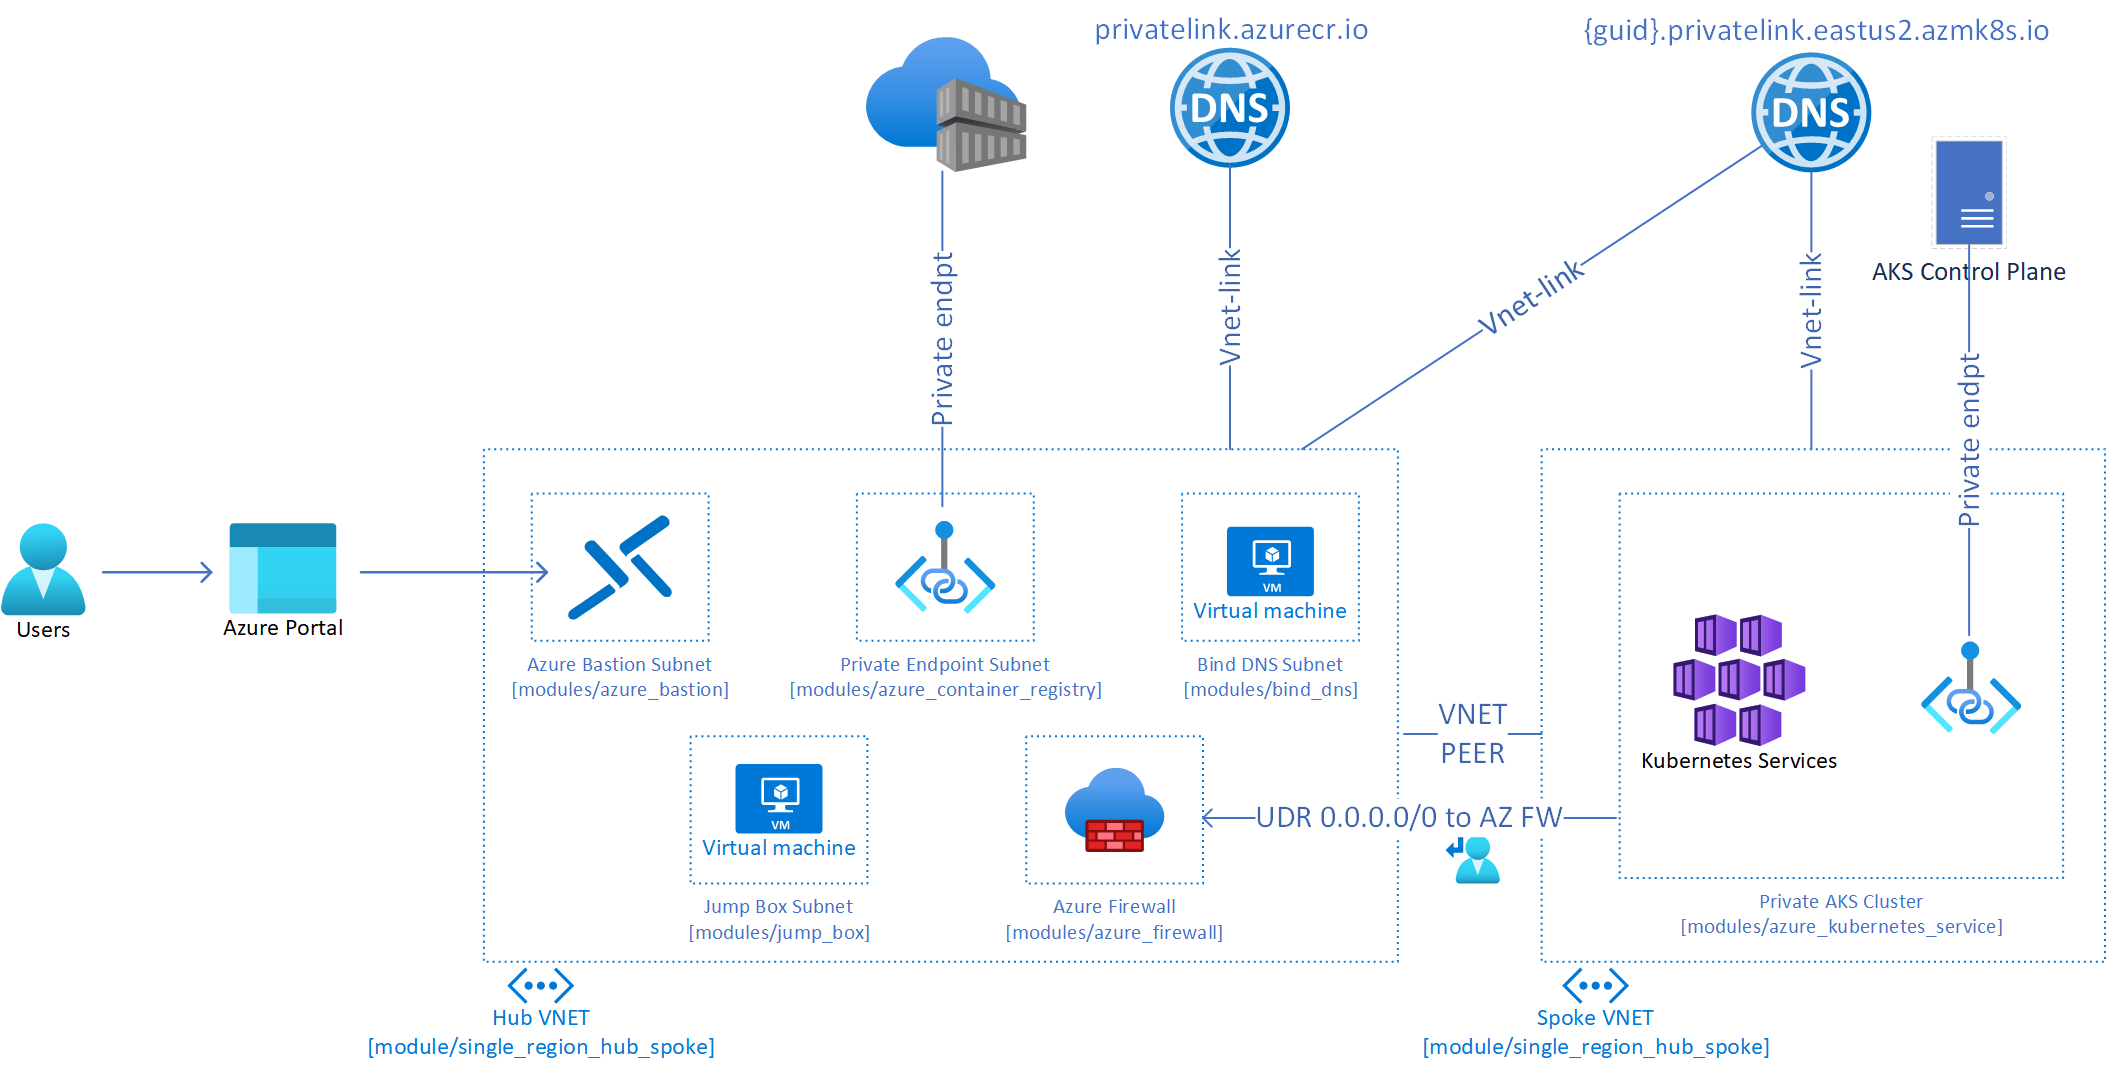
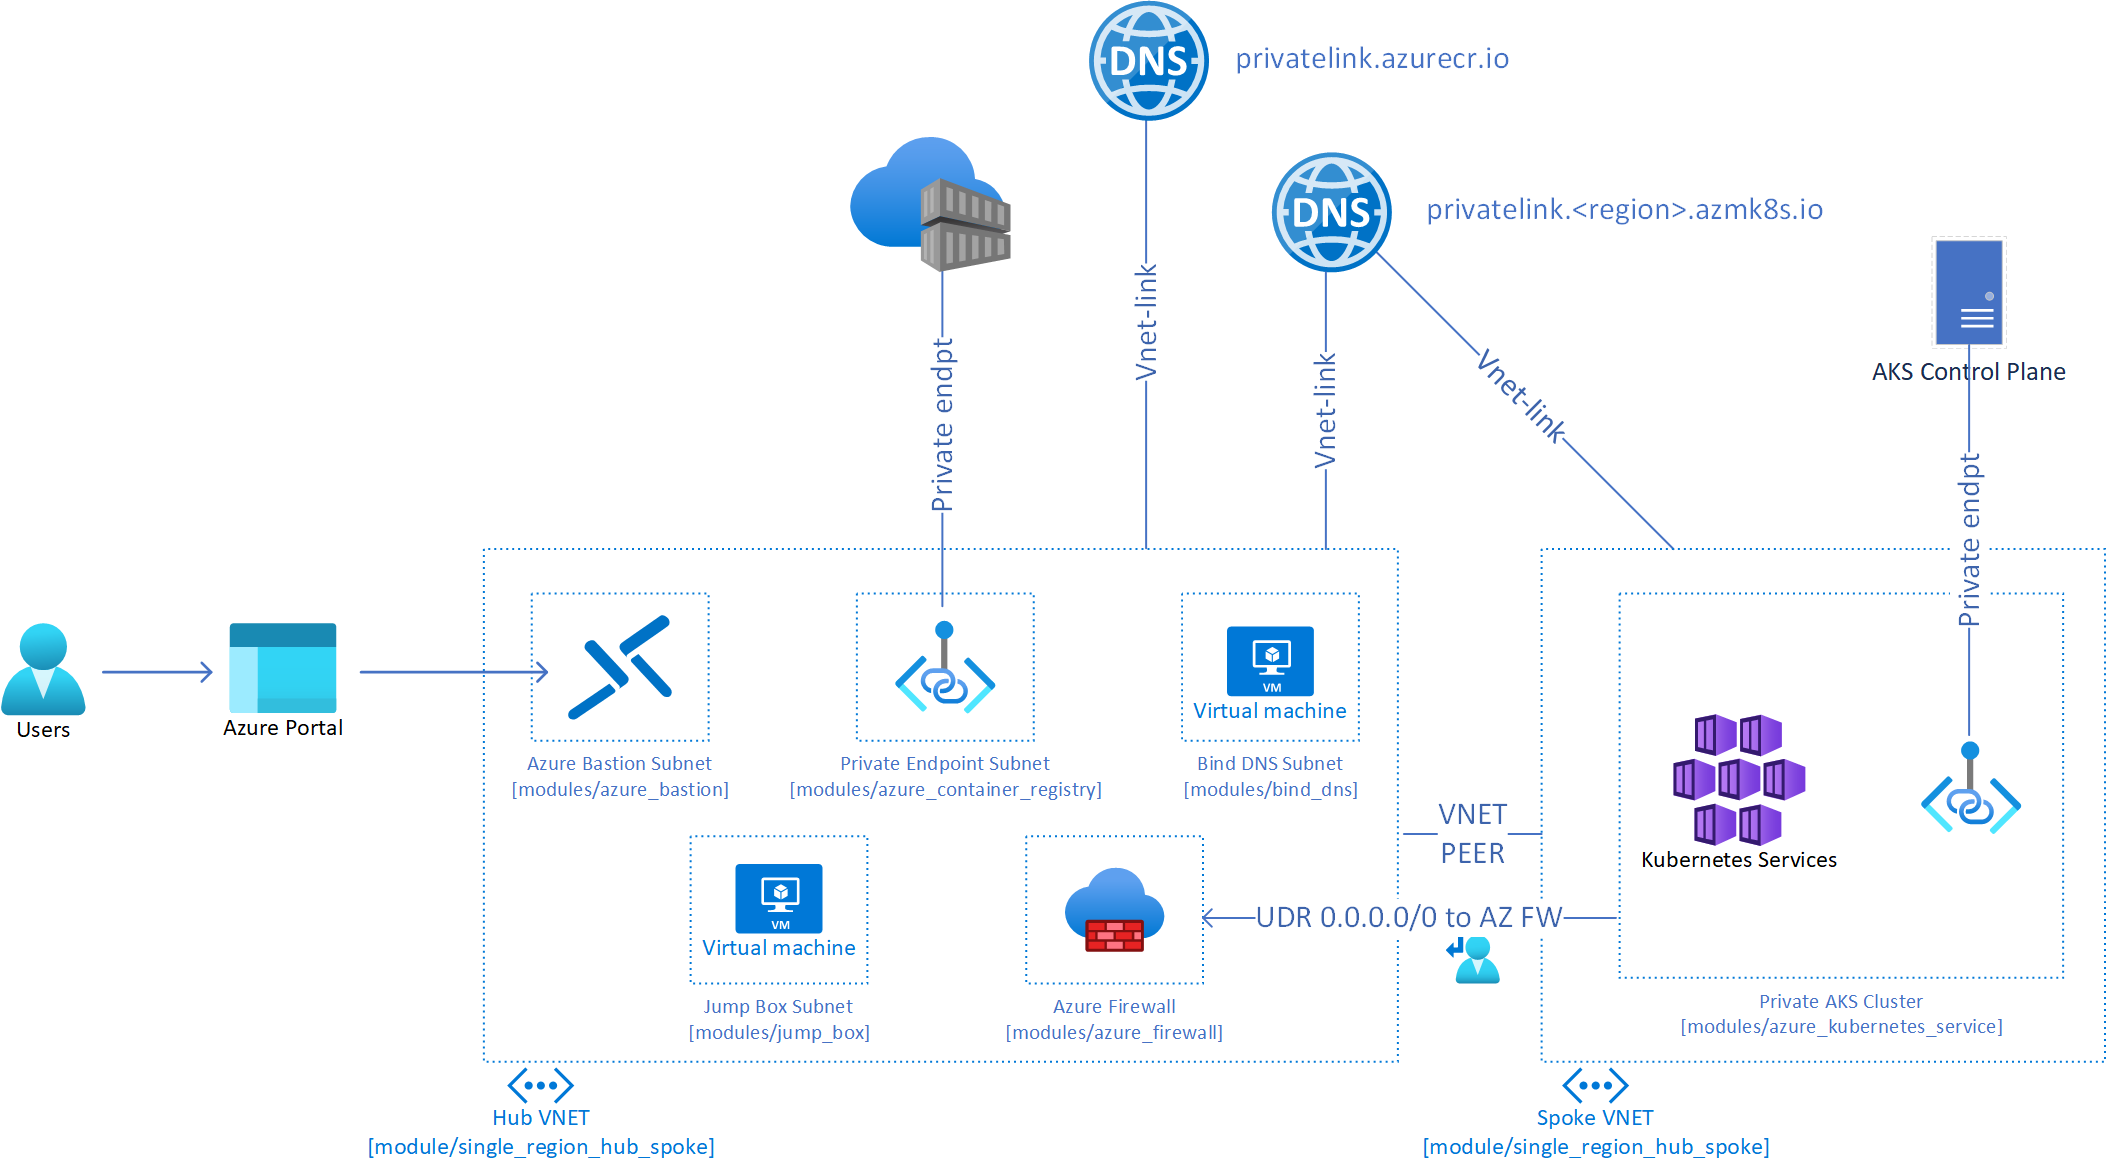
Updated readme

diff --git a/readme.md b/readme.md
@@ -1,29 +1,31 @@
 # Overview 
-The following project demonstrates deployment of a private AKS cluster within a hub-spoke model with custom DNS. It consists of: 
+The following project demonstrates deployment of a private AKS cluster within a hub-spoke model with BYO Private DNS Zone. It consists of: 
 1. Hub VNET with:
-    1. Azure Bastion - Used SSH into BIND/Jump Box VMs
+    1. Azure Bastion - Used SSH into BIND/Jump Box VMs/AKS Nodes
     2. Azure Firewall - Used for AKS Egress Filtering
     3. BIND DNS - Used as the DNS for Spoke VNET, Forwards to 168.63.129.16 for Private Endpoint resolution
     4. Private Endpoint Subnet for ACR/other shared resources
     5. Azure Private DNS for Private Endpoints [ACR, AKS]
 2. Spoke VNET with:
     1. VNET Custom DNS Servers pointed to BIND DNS
-    2. Private AKS Cluster with UDR to Azure Firewall for Egress
+    2. Private AKS Cluster with 
+        1. Host-based Encryption Enabled: [Doc Ref.](https://docs.microsoft.com/en-us/azure/aks/enable-host-encryption)
+        2. SSE with CMK: [Doc Ref.](https://docs.microsoft.com/en-us/azure/aks/azure-disk-customer-managed-keys)
+        3. UDR to Azure FW for Egress: [Doc Ref.](https://docs.microsoft.com/en-us/azure/aks/limit-egress-traffic#restrict-egress-traffic-using-azure-firewall)
 
 ![Architecture Overview](hub-spoke-private-aks-udr.png)
 
 # Module Design Principles:
-As there are multiple ways to create TF modules and instantiate environment instances. We structured the repository in the following way: 
+As there are multiple ways to create TF modules and instantiate environment instances. I structured the repository in the following way: 
 1. Single resources and their dependencies are grouped into a module 
 2. Architecture templates are grouped into a module
-3. There is only 2 degrees of nesting max: root (main.tf) --> module --> module
+3. There is only 2 degrees of nesting max: root main.tf --> module --> module
 
 # Build and Environment Dependencies 
-1. Terraform execution environment should be within a linux context
-2. jq lib [sudo apt-get install jq], Azure CLI needed
-3. Assumption is that you leveraged the azure cli login auth method within your dev environment, there needs to be additional code modifications for deploying this via Azure DevOps/other build utilities (dns-zone-link.sh and aks module needs to be modified)
-4. Ensure you edit the bind_install.sh to reference your own blob storage location for config file storage and update named.conf.options allowedclients list. 
-5. Generate PEM keys for VMs and AKS
+1. Terraform execution environment could be windows or linux based.
+2. Leverage the azure cli login auth method within your dev environment.
+3. Ensure you edit the bind_install.sh to reference your own blob storage location for config file storage and update named.conf.options allowedclients list. 
+4. Generate PEM keys for VMs and AKS
 
 # Generate SSH Keys for VM or AKS Access
 To generate an ssh key pair for VM/AKS access, you can leverage the following command: 
@@ -31,4 +33,4 @@ ssh-keygen -m PEM -t rsa -b 4096 -f "key name"
 Make sure to reference the right pem key location within your tfvars 
 
 # Azure Bastion Host 
-Azure Bastion host will be leveraged to SSH into VMs within the environment [ex. DNS Server, Jump Boxes]. Unfortunately, this can not be extend to SSH into worker-nodes on AKS clusters due to a known issue: https://github.com/Azure/AKS/issues/1854 
+Azure Bastion host will be leveraged to SSH into VMs within the environment [ex. DNS Server, Jump Boxes and AKS nodes].
